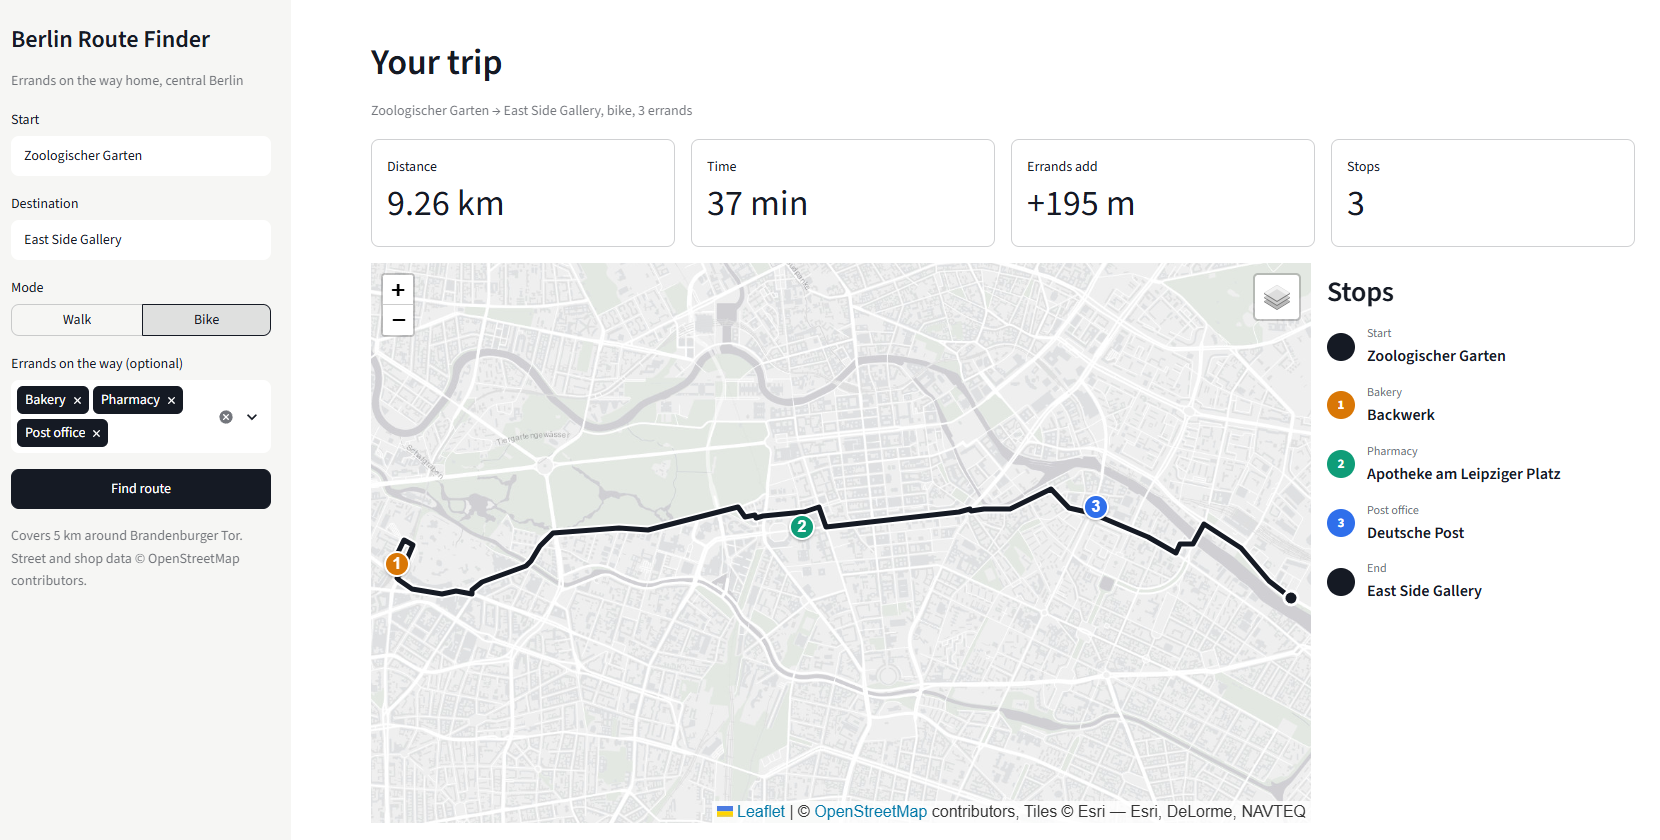
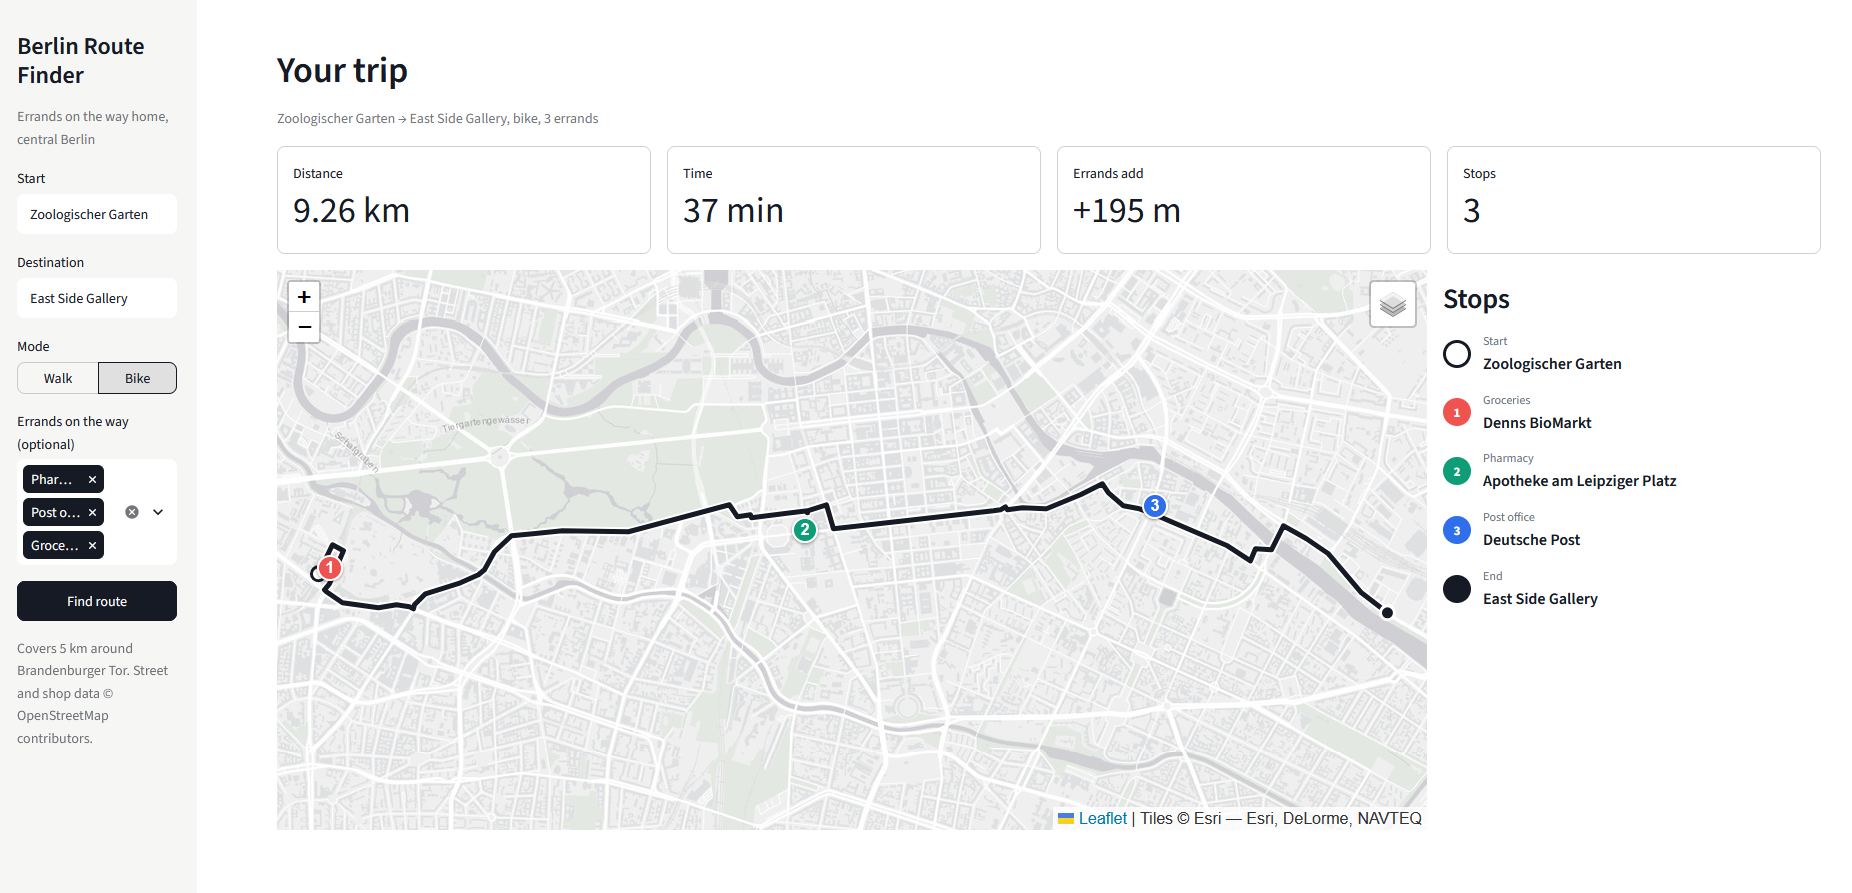
Clean up

diff --git a/src/routing.py b/src/routing.py
@@ -46,7 +46,6 @@ def make_heuristic(G, target):
     t_cos = math.cos(t_lat)
 
     def heuristic(node, _target=None):  # _target is unused, only there because NetworkX's A* passes it
-        n = G.nodes[node]
         n_lat, n_lon = math.radians(G.nodes[node]["y"]), math.radians(G.nodes[node]["x"])
         # Haversine formula for the straight-line distance
         a = (math.sin((t_lat - n_lat) /2) ** 2

diff --git a/src/planner.py b/src/planner.py
@@ -1,5 +1,4 @@
 import csv
-import itertools
 from collections import namedtuple
 
 import networkx as nx
@@ -70,7 +69,7 @@ def plan_trip(G, index, start, end, shops, kinds, k=5):
 
     return best_stops, best_distance, route
 
- 
+
 def best_trip(start, end, candidates, dist):
     """
     Shortest trip from start to end visiting one shop of each kind (dynamic programming).
